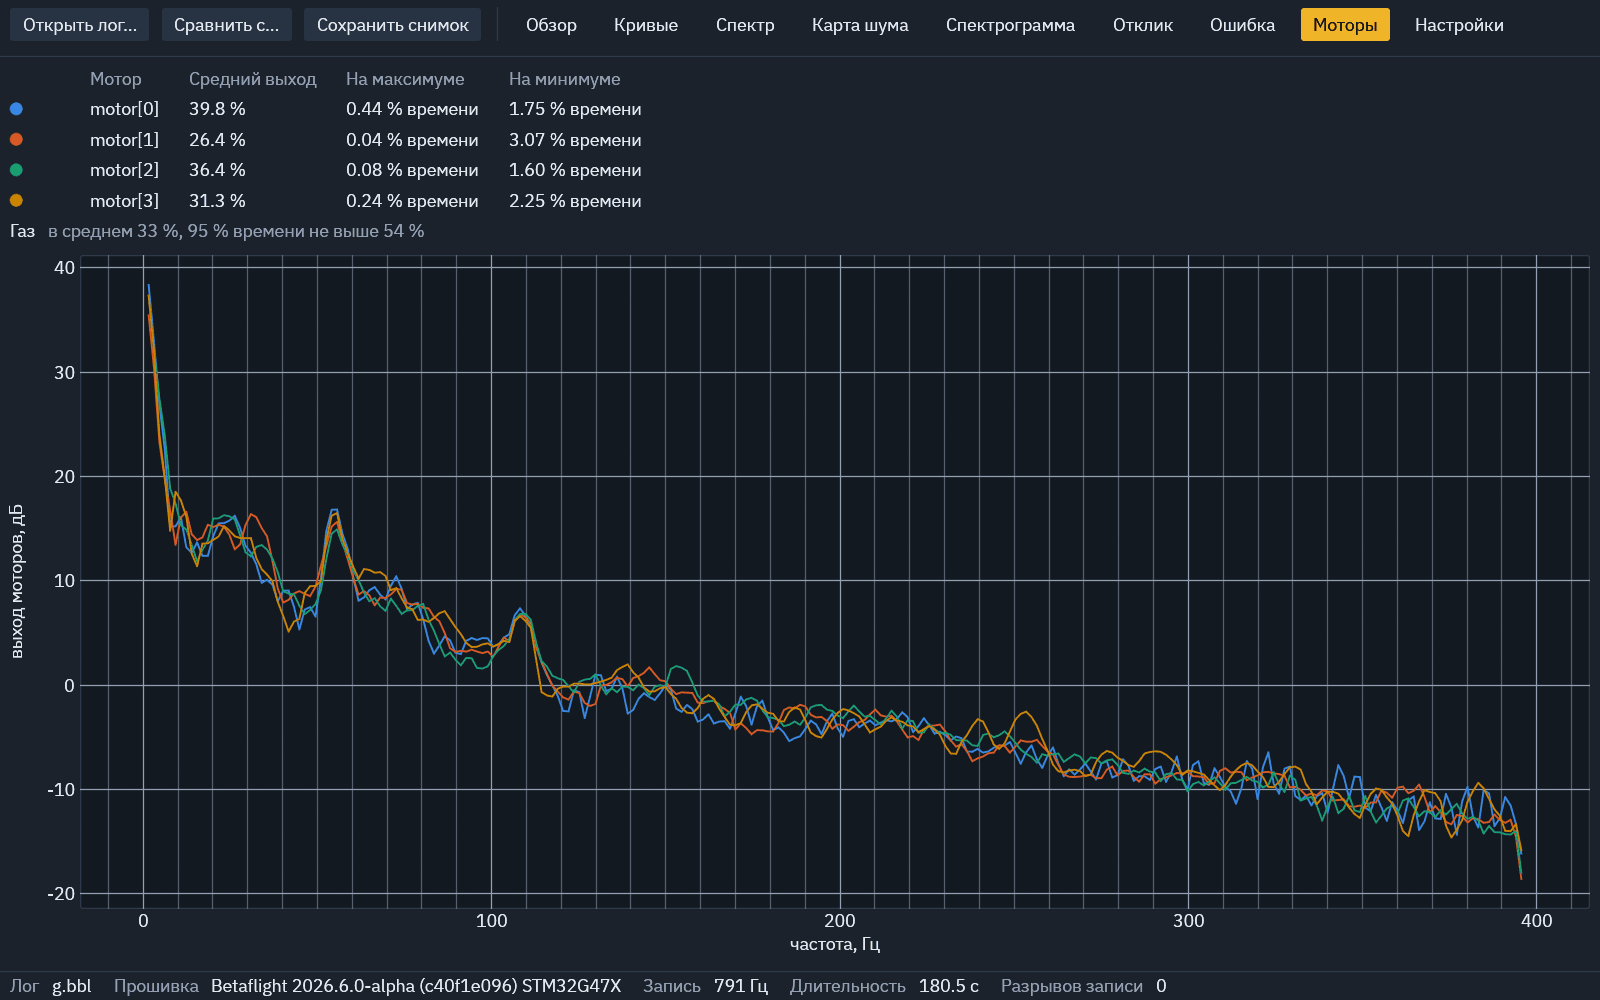
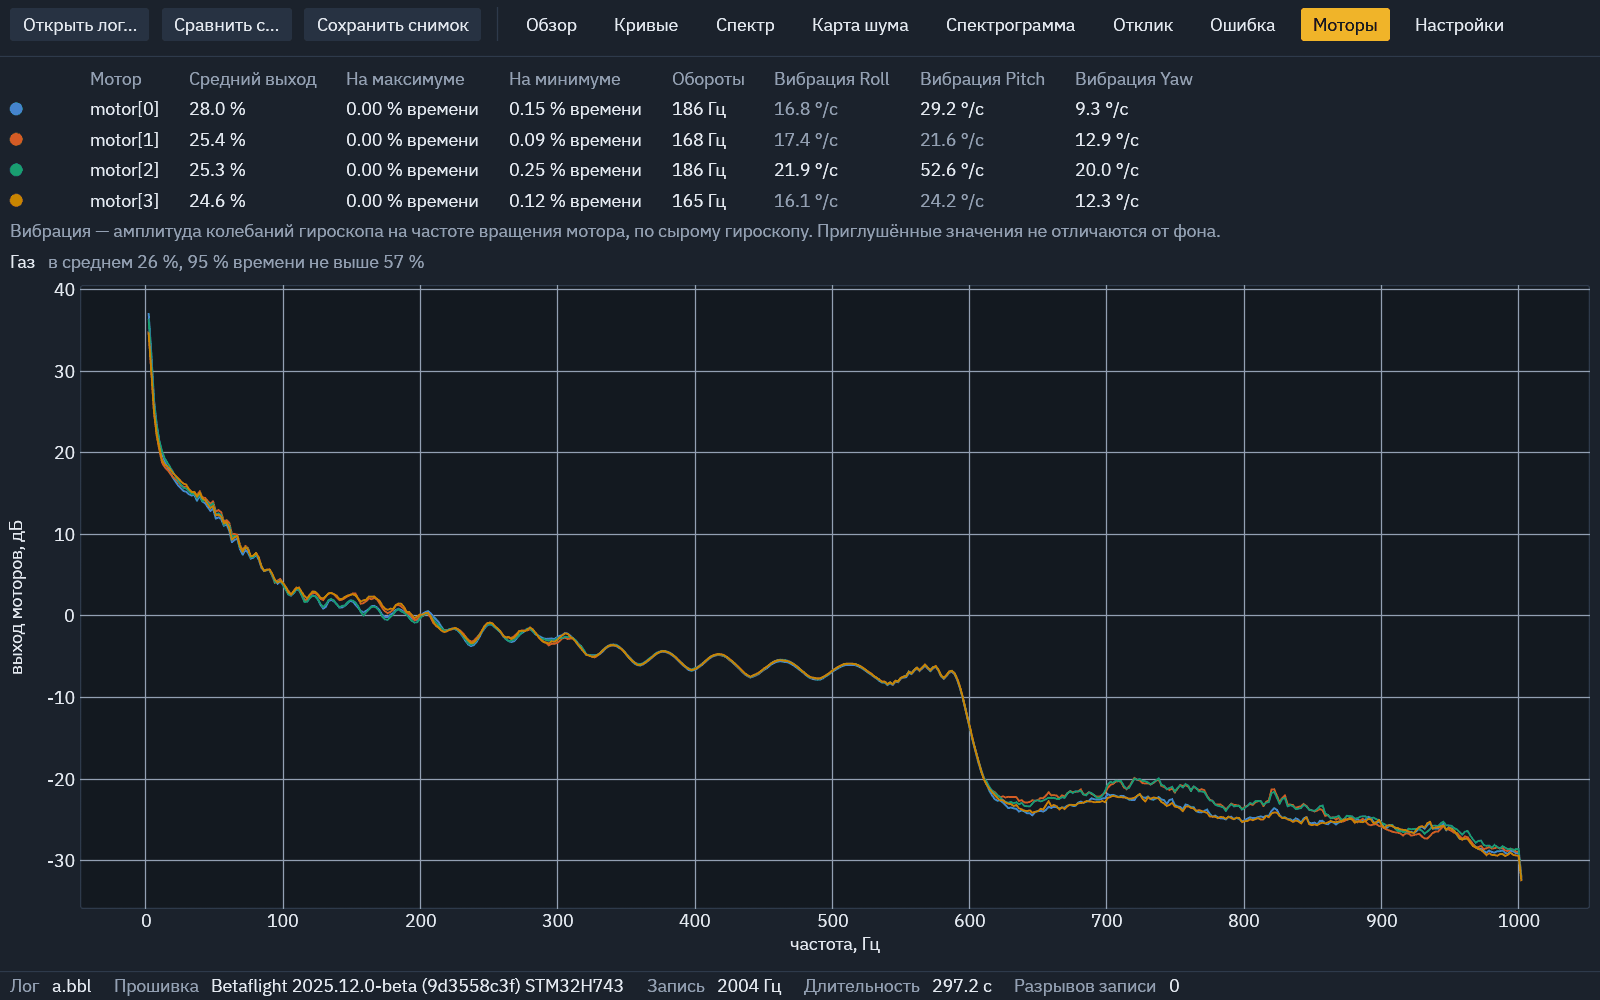
Вибрация по моторам: амплитуда гироскопа на частоте вращения каждого мотора
Синхронное детектирование по телеметрии оборотов; таблица на вкладке «Моторы»
и находка, если один мотор трясёт заметно сильнее остальных.
Трекер и README дополнены этапами 22–26.

diff --git a/src/tabs.rs b/src/tabs.rs
@@ -100,9 +100,22 @@ pub struct Motors {
     spectra: Vec<Vec<[f64; 2]>>,
     /// Газ: `(средний %, 95 % времени не выше, %)`.
     throttle: Option<(f32, f32)>,
+    /// По моторам (в том же порядке, что `stats`): средние обороты, Гц, и вибрация
+    /// гироскопа на частоте вращения по осям. `None` — в логе нет оборотов этого мотора.
+    rotation: Vec<Option<(f32, [Option<dsp::RotationVibration>; 3])>>,
+    /// Вибрация считалась по сырому гироскопу; иначе — по отфильтрованному, и она занижена.
+    rotation_from_raw: bool,
 }
 
 impl Motors {
+    /// Вибрация мотора в плоскости рамы: Roll и Pitch вместе (на Yaw дисбаланс почти не действует).
+    /// Вторым числом — фон, с которым её надо сравнивать.
+    fn shake(&self, motor: usize) -> Option<(f64, f64)> {
+        let (_, by_axis) = self.rotation.get(motor)?.as_ref()?;
+        let (roll, pitch) = (by_axis[0].as_ref()?, by_axis[1].as_ref()?);
+        Some((roll.amplitude.hypot(pitch.amplitude), roll.floor.hypot(pitch.floor)))
+    }
+
     fn new(loaded: &Loaded) -> Self {
         let (lo, hi) = loaded.range;
         let cols: Vec<(&String, &[f32])> = loaded.log.names.iter().zip(&loaded.log.cols).filter(|(n, _)| n.starts_with("motor[")).map(|(n, c)| (n, &c[lo..hi])).collect();
@@ -125,7 +138,18 @@ impl Motors {
             let k = t.len() * 95 / 100;
             (mean, *t.select_nth_unstable_by(k, f32::total_cmp).1)
         });
-        Self { stats, spectra: cols.iter().map(|(_, c)| dsp::welch_db(c, loaded.sample_rate)).collect(), throttle }
+        let rotation_from_raw = loaded.axis_fields.iter().any(|f| f.base == "gyroUnfilt");
+        let gyro = loaded.axis_cols(if rotation_from_raw { "gyroUnfilt" } else { "gyroADC" });
+        let rotation = cols
+            .iter()
+            .map(|(name, _)| {
+                // motor[3] ↔ eRPM[3]
+                let hz: Vec<f32> = loaded.log.col(&name.replace("motor", "eRPM"))?[lo..hi].iter().map(|v| v * loaded.erpm_to_hz()).collect();
+                let mean = hz.iter().sum::<f32>() / hz.len().max(1) as f32;
+                Some((mean, [0, 1, 2].map(|a| dsp::rotation_vibration(&gyro[a]?[lo..hi], &hz, loaded.sample_rate))))
+            })
+            .collect();
+        Self { stats, spectra: cols.iter().map(|(_, c)| dsp::welch_db(c, loaded.sample_rate)).collect(), throttle, rotation, rotation_from_raw }
     }
 }
 
@@ -143,20 +167,41 @@ pub fn show_motors(ui: &mut egui::Ui, loaded: &mut Loaded) {
         ui.colored_label(theme::MUTED, "В логе нет полей motor[…]");
         return;
     }
-    egui::Grid::new("motor_stats").num_columns(5).spacing([24.0, 6.0]).show(ui, |ui| {
+    let has_rotation = motors.rotation.iter().any(Option::is_some);
+    egui::Grid::new("motor_stats").num_columns(9).spacing([24.0, 6.0]).show(ui, |ui| {
         for title in ["", "Мотор", "Средний выход", "На максимуме", "На минимуме"] {
             ui.colored_label(theme::MUTED, title);
         }
+        if has_rotation {
+            for title in ["Обороты", "Вибрация Roll", "Вибрация Pitch", "Вибрация Yaw"] {
+                ui.colored_label(theme::MUTED, title);
+            }
+        }
         ui.end_row();
-        for (name, mean, at_max, at_min) in &motors.stats {
+        for ((name, mean, at_max, at_min), rotation) in motors.stats.iter().zip(&motors.rotation) {
             swatch(ui, name);
             ui.label(name);
             ui.label(format!("{mean:.1} %"));
             ui.label(format!("{at_max:.2} % времени"));
             ui.label(format!("{at_min:.2} % времени"));
+            if let Some((hz, by_axis)) = rotation {
+                ui.label(format!("{hz:.0} Гц"));
+                for vibration in by_axis {
+                    match vibration {
+                        // Вибрация, не превышающая фон вдвое, показана приглушённо: мотор в ней не виден.
+                        Some(v) if v.amplitude > 2.0 * v.floor => ui.label(format!("{:.1} °/с", v.amplitude)),
+                        Some(v) => ui.colored_label(theme::MUTED, format!("{:.1} °/с", v.amplitude)),
+                        None => ui.colored_label(theme::MUTED, "нет данных"),
+                    };
+                }
+            }
             ui.end_row();
         }
     });
+    if has_rotation {
+        let source = if motors.rotation_from_raw { "по сырому гироскопу" } else { "по отфильтрованному гироскопу — RPM-фильтр эту частоту давит, значения занижены" };
+        ui.colored_label(theme::MUTED, format!("Вибрация — амплитуда колебаний гироскопа на частоте вращения мотора, {source}. Приглушённые значения не отличаются от фона."));
+    }
     if let Some((mean, p95)) = motors.throttle {
         ui.horizontal(|ui| {
             ui.label("Газ");
@@ -311,6 +356,23 @@ fn findings(loaded: &mut Loaded, prop_wash: &[Option<dsp::PropWash>; 3]) -> Vec<
             if (mean - mean_all).abs() > 8.0 {
                 let how = if *mean > mean_all { "нагружен сильнее" } else { "нагружен слабее" };
                 out.push((false, format!("{name} {how} остальных: средний выход {mean:.0} % при среднем по моторам {mean_all:.0} %. Проверьте центровку, пропеллер и мотор.")));
+            }
+        }
+    }
+
+    // Мотор, который трясёт заметно сильнее остальных.
+    let motors = &loaded.motors.as_ref().unwrap().1;
+    let shakes: Vec<Option<(f64, f64)>> = (0..motors.stats.len()).map(|m| motors.shake(m)).collect();
+    if shakes.iter().flatten().count() >= 3 {
+        for (m, (shake, floor)) in shakes.iter().enumerate().filter_map(|(m, s)| Some((m, (*s)?))) {
+            let mut others: Vec<f64> = shakes.iter().enumerate().filter(|(i, _)| *i != m).filter_map(|(_, s)| Some((*s)?.0)).collect();
+            let mid = others.len() / 2;
+            let typical = *others.select_nth_unstable_by(mid, f64::total_cmp).1;
+            // Пороги с запасом: разница вдвое встречается и у исправных моторов,
+            // а вибрация слабее 3 °/с на управление не влияет.
+            if shake > 2.5 * typical && shake > 2.0 * floor && shake > 3.0 {
+                let caveat = if motors.rotation_from_raw { "" } else { " Оценка сделана по отфильтрованному гироскопу и занижена." };
+                out.push((shake > 4.0 * typical, format!("{}: вибрация на частоте его вращения {shake:.1} °/с — в {:.1} раза больше, чем у остальных моторов. Проверьте пропеллер, вал и подшипники этого мотора.{caveat}", motors.stats[m].0, shake / typical)));
             }
         }
     }

diff --git a/src/dsp.rs b/src/dsp.rs
@@ -374,6 +374,48 @@ pub fn delay_ms(raw: &[f32], filtered: &[f32], fs: f64) -> Option<f64> {
     (den > 0.0).then(|| (-num / (std::f64::consts::TAU * den) * 1000.0).max(0.0))
 }
 
+/// Вибрация гироскопа, синхронная с вращением одного мотора.
+pub struct RotationVibration {
+    /// Амплитуда составляющей на частоте вращения мотора, в единицах сигнала (°/с).
+    pub amplitude: f64,
+    /// То же на частоте в полтора раза выше (между первой и второй гармониками,
+    /// в стороне от оборотов остальных моторов), — уровень фона
+    /// для сравнения: амплитуда около фона значит, что вибрации от мотора не видно.
+    pub floor: f64,
+}
+
+/// Выделяет из `signal` составляющую, которая вращается вместе с мотором
+/// (синхронное детектирование): сигнал умножается на синус и косинус фазы
+/// вращения, накопленной из `motor_hz`, и усредняется по отрезкам в 0.25 с.
+/// Моторы различаются, пока их обороты отличаются хотя бы на несколько герц.
+pub fn rotation_vibration(signal: &[f32], motor_hz: &[f32], fs: f64) -> Option<RotationVibration> {
+    const MIN_HZ: f32 = 20.0; // мотор стоит или еле крутится — отрезок не учитывается
+    let window = (fs * 0.25) as usize;
+    let len = signal.len().min(motor_hz.len());
+    if window < 16 || len < window * 20 {
+        return None;
+    }
+    // Амплитуда составляющей с фазой `ratio`·(фаза вращения) по каждому отрезку.
+    let detect = |ratio: f64| {
+        let (mut phase, mut squares, mut segments) = (0f64, 0f64, 0usize);
+        for (x, hz) in signal[..len].chunks_exact(window).zip(motor_hz[..len].chunks_exact(window)) {
+            let mean = x.iter().sum::<f32>() / window as f32;
+            let (mut cos_sum, mut sin_sum) = (0f64, 0f64);
+            for (v, f) in x.iter().zip(hz) {
+                phase += std::f64::consts::TAU * ratio * *f as f64 / fs;
+                cos_sum += (v - mean) as f64 * phase.cos();
+                sin_sum += (v - mean) as f64 * phase.sin();
+            }
+            if hz.iter().all(|f| *f >= MIN_HZ) {
+                squares += 4.0 * (cos_sum * cos_sum + sin_sum * sin_sum) / (window * window) as f64;
+                segments += 1;
+            }
+        }
+        (segments >= 10).then(|| (squares / segments as f64).sqrt())
+    };
+    Some(RotationVibration { amplitude: detect(1.0)?, floor: detect(1.5)? })
+}
+
 /// Раскачка после сбросов газа (prop wash) по одной оси.
 pub struct PropWash {
     /// Сколько сбросов газа найдено.
@@ -561,6 +603,32 @@ mod tests {
         let settled = r.points.iter().filter(|p| p[0] > 300.0).map(|p| p[1]).sum::<f64>() / r.points.iter().filter(|p| p[0] > 300.0).count() as f64;
         eprintln!("пик {peak:.3} на {peak_ms:.0} мс, установившееся {settled:.3}");
         assert!((peak - 1.37).abs() < 0.05 && (peak_ms - 26.0).abs() < 4.0 && (settled - 1.0).abs() < 0.03, "пик {peak} на {peak_ms} мс, установившееся {settled}");
+    }
+
+    #[test]
+    fn rotation_vibration_singles_out_the_unbalanced_motor() {
+        // Четыре мотора с немного разными и плывущими оборотами; третий трясёт впятеро сильнее.
+        let fs = 2000.0;
+        let amplitudes = [2.0, 2.0, 10.0, 2.0];
+        let mut hz = vec![Vec::new(); 4];
+        let (mut phases, mut gyro) = ([0f64; 4], noise(60_000));
+        for (i, sample) in gyro.iter_mut().enumerate() {
+            let t = i as f64 / fs;
+            for m in 0..4 {
+                let f = 150.0 + 8.0 * m as f64 + 20.0 * (std::f64::consts::TAU * t / 7.0).sin();
+                phases[m] += std::f64::consts::TAU * f / fs;
+                hz[m].push(f as f32);
+                *sample += (amplitudes[m] * phases[m].sin()) as f32;
+            }
+        }
+        for m in 0..4 {
+            let found = rotation_vibration(&gyro, &hz[m], fs).unwrap();
+            let expected = amplitudes[m];
+            assert!((found.amplitude - expected).abs() < expected * 0.25 + 0.5, "мотор {m}: {} вместо {expected}", found.amplitude);
+            assert!(found.floor < 0.6, "фон {}", found.floor);
+        }
+        // Остановленный мотор не оценивается.
+        assert!(rotation_vibration(&gyro, &vec![0.0; gyro.len()], fs).is_none());
     }
 
     #[test]

diff --git a/src/main.rs b/src/main.rs
@@ -237,12 +237,17 @@ impl Loaded {
         Some(self.log.col("rcCommand[3]")?.iter().map(|v| (v - 1000.0) / 10.0).collect())
     }
 
+    /// Множитель из значения поля eRPM в частоту вращения мотора, Гц (об/с).
+    /// В логе eRPM записан в сотнях электрических оборотов в минуту.
+    fn erpm_to_hz(&self) -> f32 {
+        let poles: f32 = self.log.header("motor_poles").and_then(|v| v.trim().parse().ok()).unwrap_or(14.0);
+        100.0 / (poles / 2.0) / 60.0
+    }
+
     /// Средняя по моторам частота вращения, Гц (об/с), из телеметрии eRPM.
     fn motor_hz(&self) -> Option<Vec<f32>> {
         let cols: Vec<&[f32]> = (0..8).filter_map(|i| self.log.col(&format!("eRPM[{i}]"))).collect();
-        let poles: f32 = self.log.header("motor_poles").and_then(|v| v.trim().parse().ok()).unwrap_or(14.0);
-        // В логе eRPM записан в сотнях электрических оборотов в минуту.
-        let to_hz = 100.0 / (poles / 2.0) / 60.0 / cols.len() as f32;
+        let to_hz = self.erpm_to_hz() / cols.len() as f32;
         (!cols.is_empty()).then(|| (0..self.log.time.len()).map(|i| cols.iter().map(|c| c[i]).sum::<f32>() * to_hz).collect())
     }
 

diff --git a/README.md b/README.md
@@ -18,14 +18,14 @@ cargo run --release -- путь/к/логу.bbl
 
 | Вкладка | Что показывает |
 |---|---|
-| Обзор | Автоматические находки, вклад P/I/D/F по осям, события лога |
+| Обзор | Автоматические находки (в том числе чей пик — моторов или рамы), вклад P/I/D/F, prop wash после сбросов газа, события лога |
 | Кривые | Сигналы во времени по Roll / Pitch / Yaw; масштаб по времени задаёт участок для остального анализа |
 | Спектр | Шум до и после фильтров, частоты фильтров из лога, задержка фильтров, пробный фильтр |
-| Карта шума | Шум в зависимости от газа или оборотов моторов |
+| Карта шума | Шум в зависимости от газа или оборотов моторов; поверх — срезы фильтров и гармоники оборотов |
 | Спектрограмма | Шум во времени |
 | Отклик | Отклик на ступеньку, усиление и фаза контура |
 | Ошибка | Распределение ошибки слежения и её зависимость от скорости стиков |
-| Моторы | Загрузка, насыщение и спектр выходов моторов |
+| Моторы | Загрузка, насыщение, спектр выходов и вибрация на частоте вращения каждого мотора |
 | Настройки | Параметры из заголовка лога; при сравнении — отличия двух логов |
 
 «Сравнить с…» накладывает второй лог штриховыми линиями на спектр и отклик.
